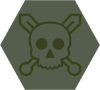
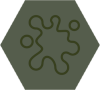
Move combat to movement and function Add fight won and adventurer death title

Changed region(s): [[0.18, 0.1556, 0.81, 0.8444]]

diff --git a/BlazorDungeonCrawler/UncompiledScripts/dungeon_crawler/pages/dungeon_crawler.main.js b/BlazorDungeonCrawler/UncompiledScripts/dungeon_crawler/pages/dungeon_crawler.main.js
@@ -74,10 +74,6 @@
 
             if (selectedTile.getSelectable()) {
                 dungeon_crawler.core.globals.currentLevel.tilesMovement(selectedTile);
-
-                if (dungeon_crawler.core.globals.InCombat) {
-                    dungeon_crawler.main.combat();
-                }
             }
         }
     },
@@ -164,9 +160,13 @@
 
         if (dungeon_crawler.core.globals.adventurer.isAlive()) {
             dungeon_crawler.main.enemyDeathText(enemyType);
+
+            return dungeon_crawler.core.globals.tileTypes['fight_won'];
         } else {
             dungeon_crawler.main.adventurerDeathText(enemyType);
             dungeon_crawler.main.endGamge();
+
+            return dungeon_crawler.core.globals.tileTypes['adventurer_death'];
         }
     },
 
@@ -321,6 +321,9 @@
                     case dungeon_crawler.core.globals.tileTypes['fight']:
                         tileTypeClass = 'hexagon-tile-fight';
                         break;
+                    case dungeon_crawler.core.globals.tileTypes['fight_won']:
+                        tileTypeClass = 'hexagon-tile-fight-won';
+                        break;
                     case dungeon_crawler.core.globals.tileTypes['chest']:
                         tileTypeClass = 'hexagon-tile-chest';
                         break;
@@ -338,6 +341,9 @@
                         break;
                     case dungeon_crawler.core.globals.tileTypes['macguffin']:
                         tileTypeClass = 'hexagon-tile-macguffin';
+                        break;
+                    case dungeon_crawler.core.globals.tileTypes['adventurer_death']:
+                        tileTypeClass = 'hexagon-tile-adventurer-death';
                         break;
                     default:
                     case dungeon_crawler.core.globals.tileTypes['unknown']:

diff --git a/BlazorDungeonCrawler/wwwroot/css/site.css b/BlazorDungeonCrawler/wwwroot/css/site.css
@@ -238,6 +238,14 @@
                         background-image: url('../images/tiles/fight_selected.png');
                     }
 
+                #play-area .dungon #stage .hexagon-tile.hexagon-tile-fight-won {
+                    background-image: url('../images/tiles/fight_won.png');
+                }
+
+                    #play-area .dungon #stage .hexagon-tile.hexagon-tile-fight-won.hexagon-tile-selectable {
+                        background-image: url('../images/tiles/fight_won_selected.png');
+                    }
+
                 #play-area .dungon #stage .hexagon-tile.hexagon-tile-chest {
                     background-image: url('../images/tiles/chest.png');
                 }
@@ -285,6 +293,14 @@
                     #play-area .dungon #stage .hexagon-tile.hexagon-tile-macguffin.hexagon-tile-selectable {
                         background-image: url('../images/tiles/maguffin_selected.png');
                     }
+
+                #play-area .dungon #stage .hexagon-tile.hexagon-tile-adventurer-death {
+                    background-image: url('../images/tiles/death.png');
+                }
+
+
+
+
 
                 #play-area .dungon #stage .hexagon-tile span {
                     position: absolute;

diff --git a/BlazorDungeonCrawler/UncompiledScripts/dungeon_crawler/functions/dungeon_crawler.core.globals.js b/BlazorDungeonCrawler/UncompiledScripts/dungeon_crawler/functions/dungeon_crawler.core.globals.js
@@ -3,7 +3,7 @@
     hexHeight: 90,
     hexWidth: 100,
 
-    tileTypes: dungeon_crawler.core.createEnum(['unknown', 'entrance', 'exit', 'stairs_ascending', 'stairs_descending', 'fight', 'chest', 'protection', 'empty', 'potion', 'macguffin']),
+    tileTypes: dungeon_crawler.core.createEnum(['unknown', 'entrance', 'exit', 'stairs_ascending', 'stairs_descending', 'fight', 'fight_won', 'chest', 'protection', 'empty', 'potion', 'macguffin', 'adventurer_death']),
     
     //Vars
     stageHeight: null,

diff --git a/BlazorDungeonCrawler/UncompiledScripts/dungeon_crawler/classes/dungeon_crawler.tiles.js b/BlazorDungeonCrawler/UncompiledScripts/dungeon_crawler/classes/dungeon_crawler.tiles.js
@@ -135,6 +135,10 @@
             }
         }
 
+        if (dungeon_crawler.core.globals.InCombat) {
+            selectedTile.setType(dungeon_crawler.main.combat());
+        }
+
         if (selectedTile.getType() == dungeon_crawler.core.globals.tileTypes['stairs_descending']) {
             
             let nextlevel = dungeon_crawler.core.globals.currentLevel.getNextlevel();
